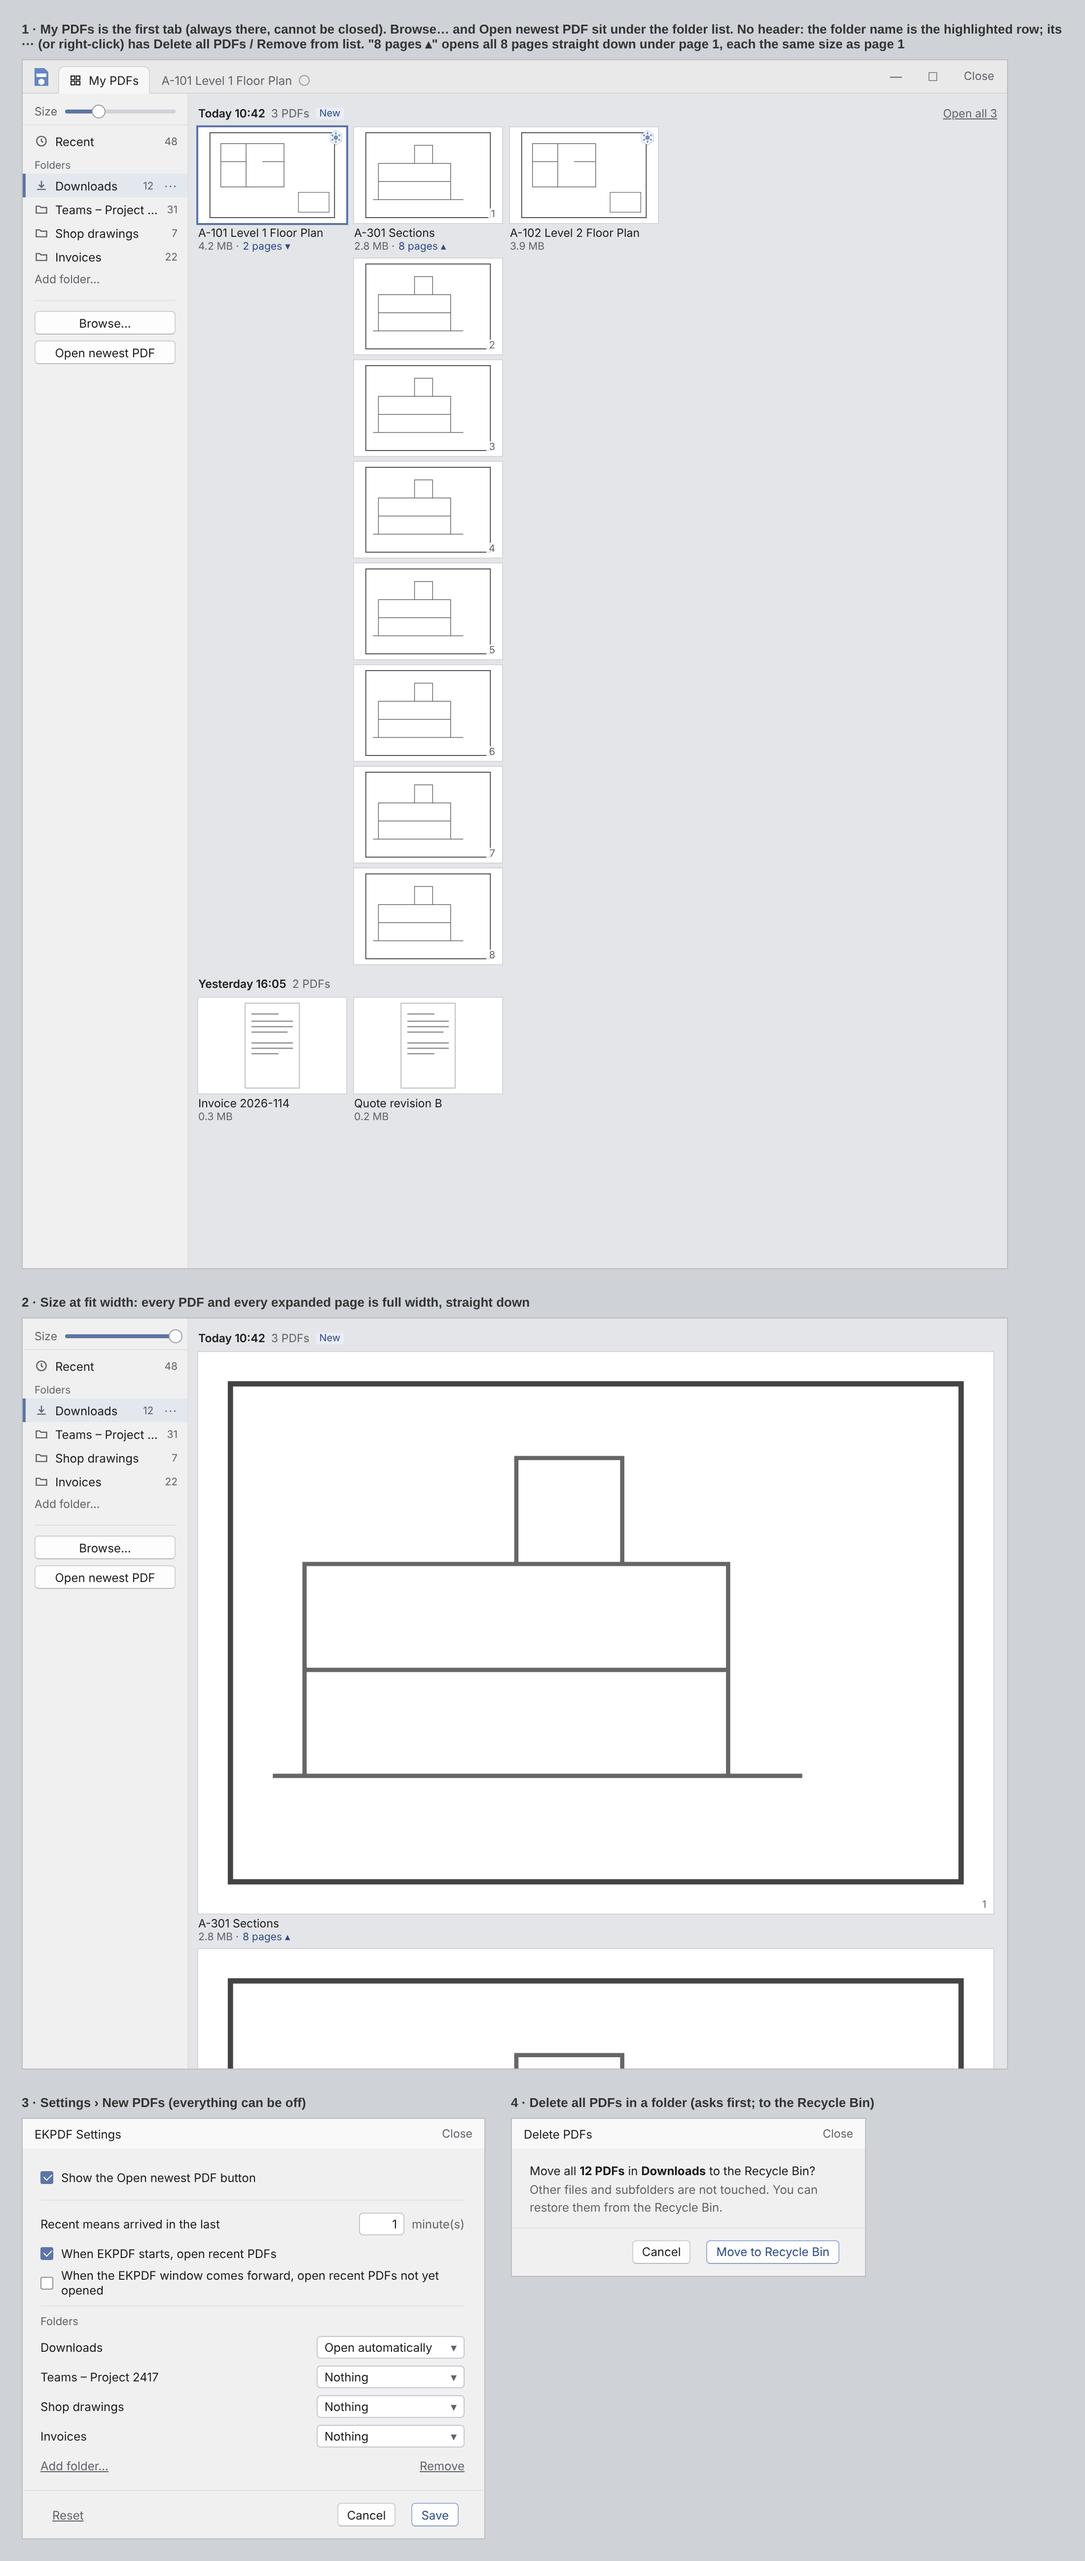
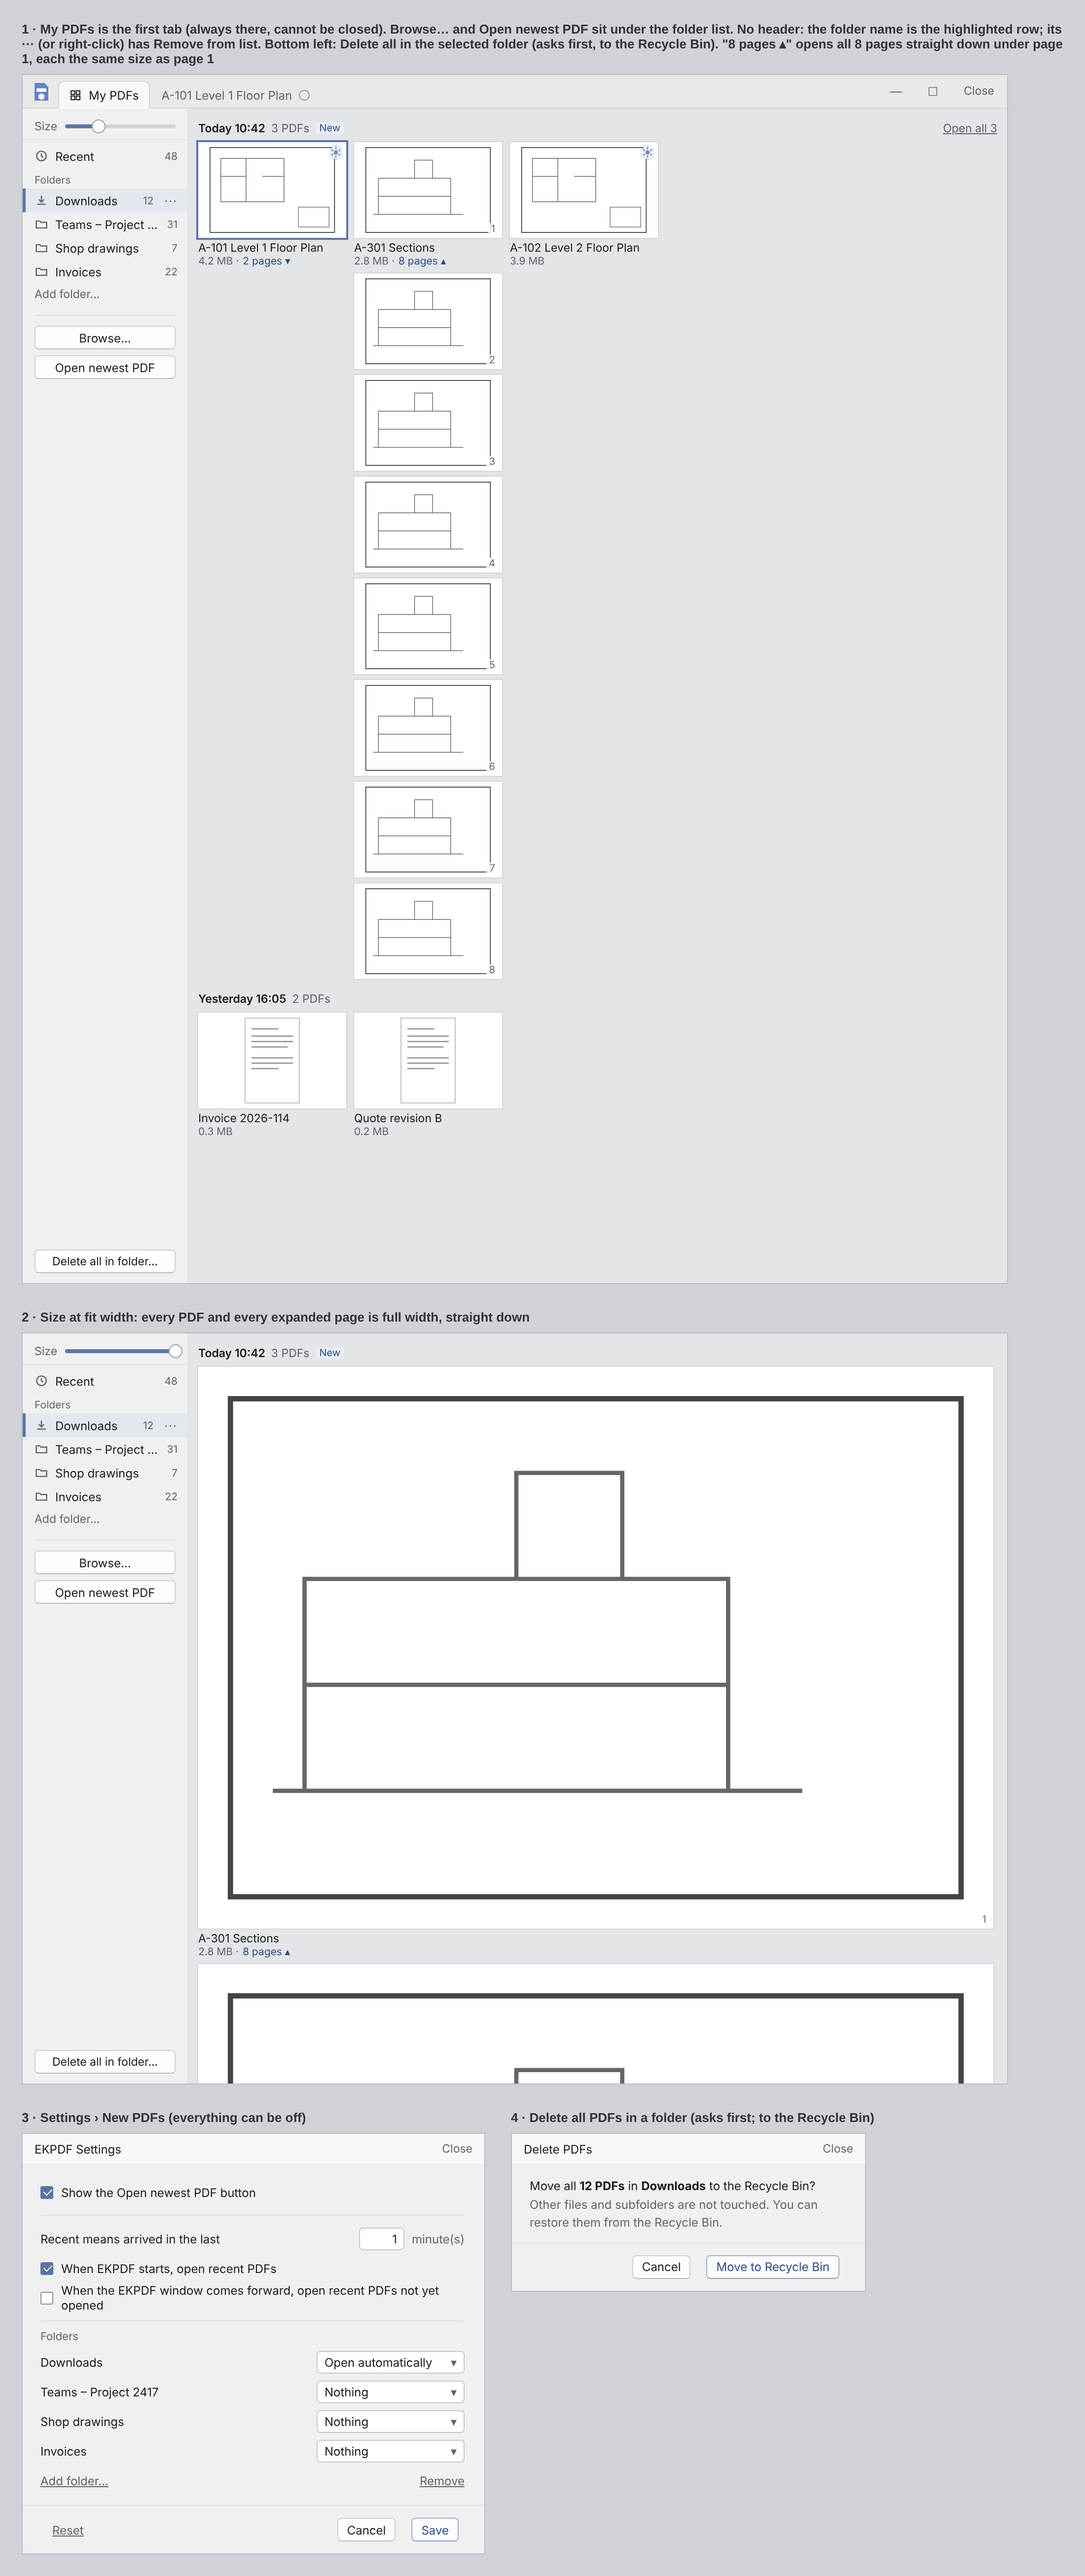
My PDFs mockup: Delete all in folder button at bottom left
Claude-Session: https://claude.ai/code/session_01N3DjppHZ7MgzVDBG7VuKSR

diff --git a/docs/mockups/library.html b/docs/mockups/library.html
@@ -81,7 +81,7 @@
 <symbol id="doc" viewBox="0 0 150 106"><rect x="45" y="6" width="60" height="94" fill="#fff" stroke="#bbb"/><path d="M52 18h30M52 26h46M52 32h46M52 38h40M52 50h46M52 56h46M52 62h30" stroke="#999" stroke-width="1.5"/></symbol>
 <symbol id="sec" viewBox="0 0 150 106"><rect x="6" y="6" width="138" height="94" fill="none" stroke="#444"/><path d="M14 80h100M20 80V40h80v40M20 60h80M60 40V20h20v20" fill="none" stroke="#666" stroke-width=".8"/></symbol>
 </defs></svg>
-<div><div class="cap">1 · My PDFs is the first tab (always there, cannot be closed). Browse… and Open newest PDF sit under the folder list. No header: the folder name is the highlighted row; its ··· (or right-click) has Delete all PDFs / Remove from list. "8 pages ▴" opens all 8 pages straight down under page 1, each the same size as page 1</div>
+<div><div class="cap">1 · My PDFs is the first tab (always there, cannot be closed). Browse… and Open newest PDF sit under the folder list. No header: the folder name is the highlighted row; its ··· (or right-click) has Remove from list. Bottom left: Delete all in the selected folder (asks first, to the Recycle Bin). "8 pages ▴" opens all 8 pages straight down under page 1, each the same size as page 1</div>
 <div class="win" style="width:1000px"><div class="tb"><svg class="logo" width="18" height="20" viewBox="0 0 18 20"><path d="M2 1h10l4 4v14H2z" fill="#6585c4"/><rect x="4" y="6.5" width="10" height="3.5" fill="#fff"/><path d="M9 11.5l3 1.7v3.4L9 18.3 6 16.6v-3.4z" fill="#fff"/></svg>
   <div class="tt on"><svg viewBox="0 0 16 16"><rect x="2.5" y="2.5" width="4.5" height="4.5"/><rect x="9" y="2.5" width="4.5" height="4.5"/><rect x="2.5" y="9" width="4.5" height="4.5"/><rect x="9" y="9" width="4.5" height="4.5"/></svg>My PDFs</div>
   <div class="tt">A-101 Level 1 Floor Plan<span class="x"></span></div>
@@ -95,7 +95,7 @@
    <div class="f"><svg><use href="#fold"/></svg>Shop drawings<span class="n">7</span></div>
    <div class="f"><svg><use href="#fold"/></svg>Invoices<span class="n">22</span></div>
    <div class="add">Add folder…</div>
-   <div style="margin:10px 12px 0;padding-top:10px;border-top:1px solid #e1e1e1;display:flex;flex-direction:column;gap:6px"><div class="btn" style="height:24px;justify-content:center">Browse…</div><div class="btn" style="height:24px;justify-content:center">Open newest PDF</div></div></div>
+   <div style="margin:10px 12px 0;padding-top:10px;border-top:1px solid #e1e1e1;display:flex;flex-direction:column;gap:6px"><div class="btn" style="height:24px;justify-content:center">Browse…</div><div class="btn" style="height:24px;justify-content:center">Open newest PDF</div></div><div style="flex:1"></div><div class="btn" style="height:24px;justify-content:center;margin:0 12px 4px;padding:0 4px;font-size:11.5px">Delete all in folder…</div></div>
   <div class="c-main">
    <div class="c-list">
     <div class="c-bh"><b>Today 10:42</b>3 PDFs<span class="new">New</span><div style="flex:1"></div><span class="link" style="font-size:11.5px">Open all 3</span></div>
@@ -114,7 +114,7 @@
    <div class="f"><svg><use href="#fold"/></svg>Shop drawings<span class="n">7</span></div>
    <div class="f"><svg><use href="#fold"/></svg>Invoices<span class="n">22</span></div>
    <div class="add">Add folder…</div>
-   <div style="margin:10px 12px 0;padding-top:10px;border-top:1px solid #e1e1e1;display:flex;flex-direction:column;gap:6px"><div class="btn" style="height:24px;justify-content:center">Browse…</div><div class="btn" style="height:24px;justify-content:center">Open newest PDF</div></div></div>
+   <div style="margin:10px 12px 0;padding-top:10px;border-top:1px solid #e1e1e1;display:flex;flex-direction:column;gap:6px"><div class="btn" style="height:24px;justify-content:center">Browse…</div><div class="btn" style="height:24px;justify-content:center">Open newest PDF</div></div><div style="flex:1"></div><div class="btn" style="height:24px;justify-content:center;margin:0 12px 4px;padding:0 4px;font-size:11.5px">Delete all in folder…</div></div>
   <div class="c-main">
    <div class="c-list">
     <div class="c-bh"><b>Today 10:42</b>3 PDFs<span class="new">New</span></div>
